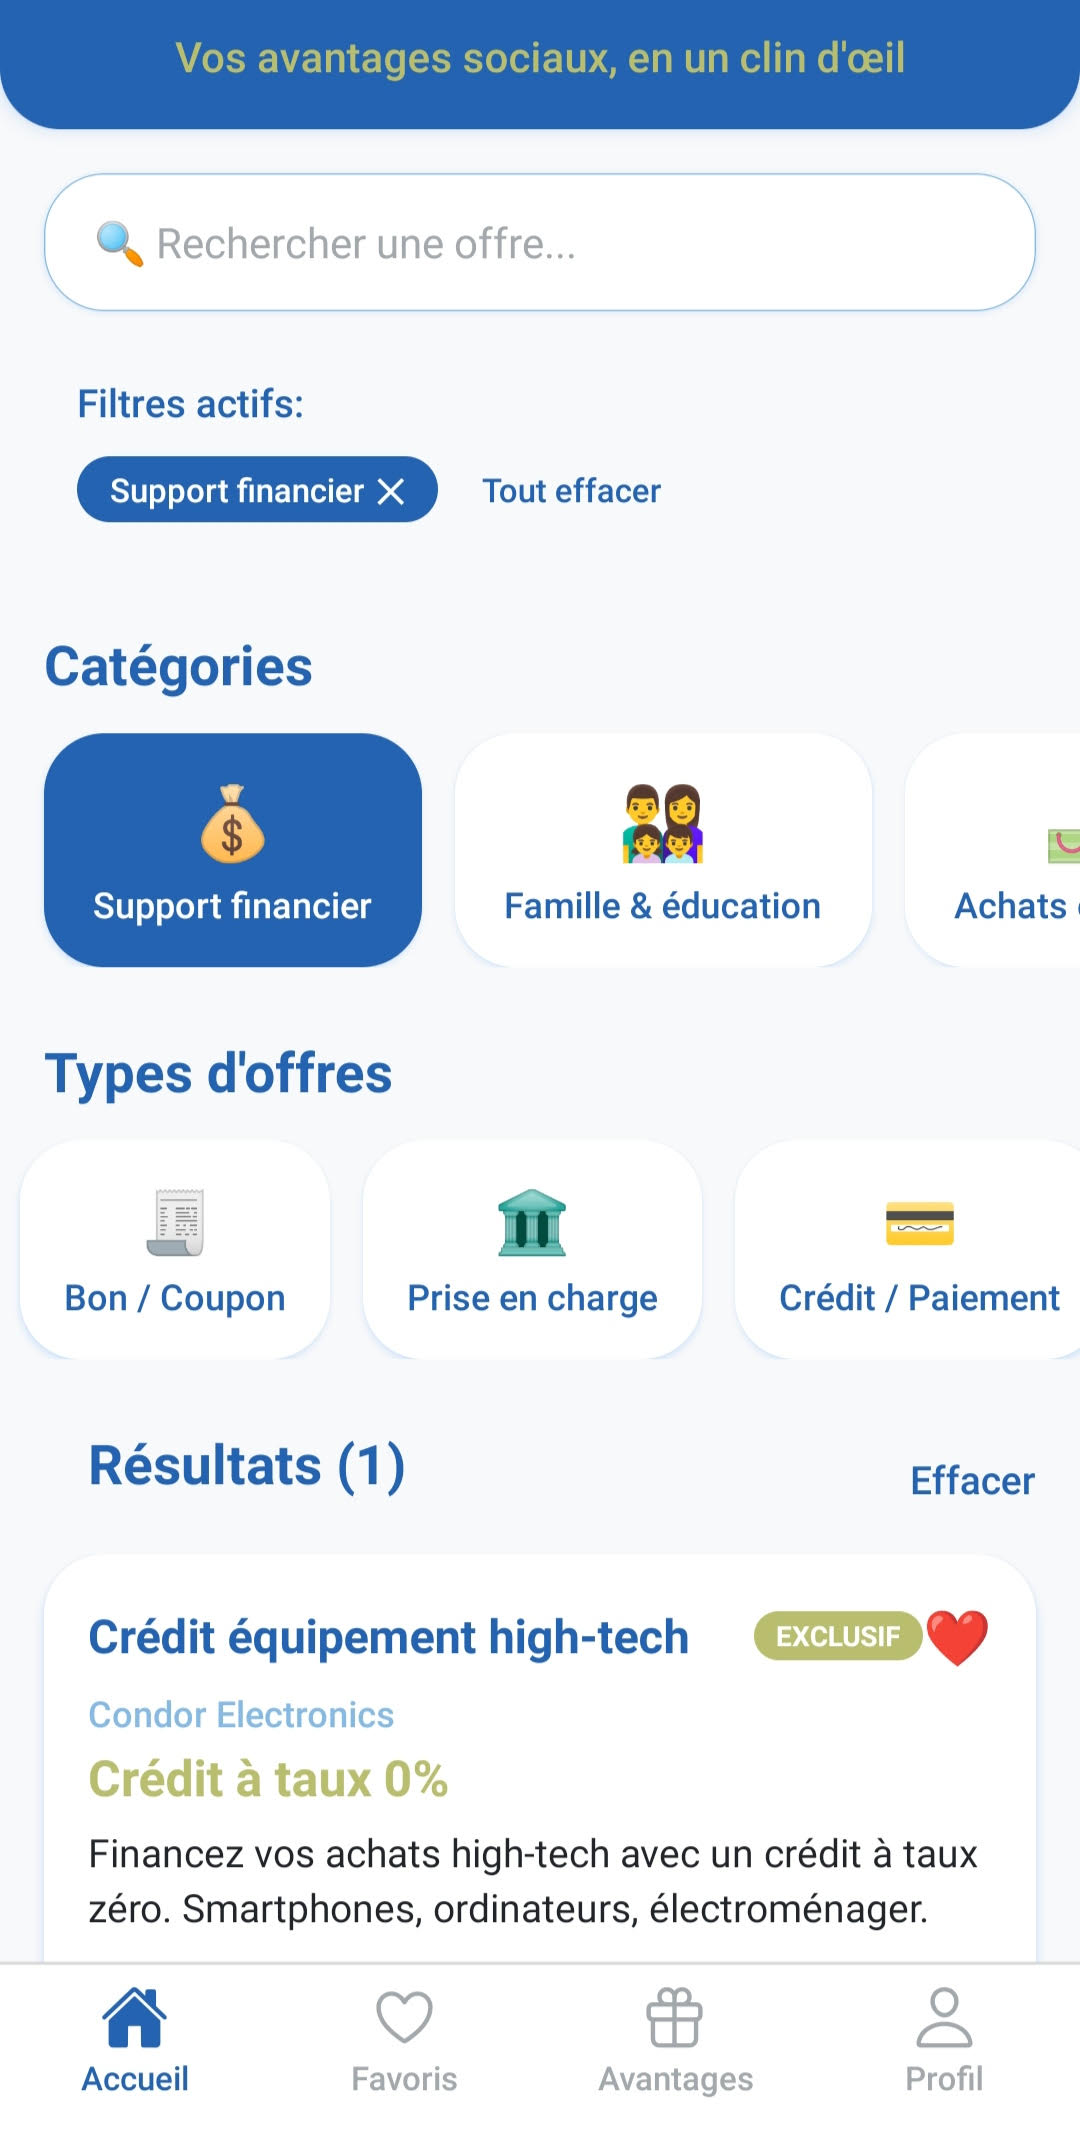
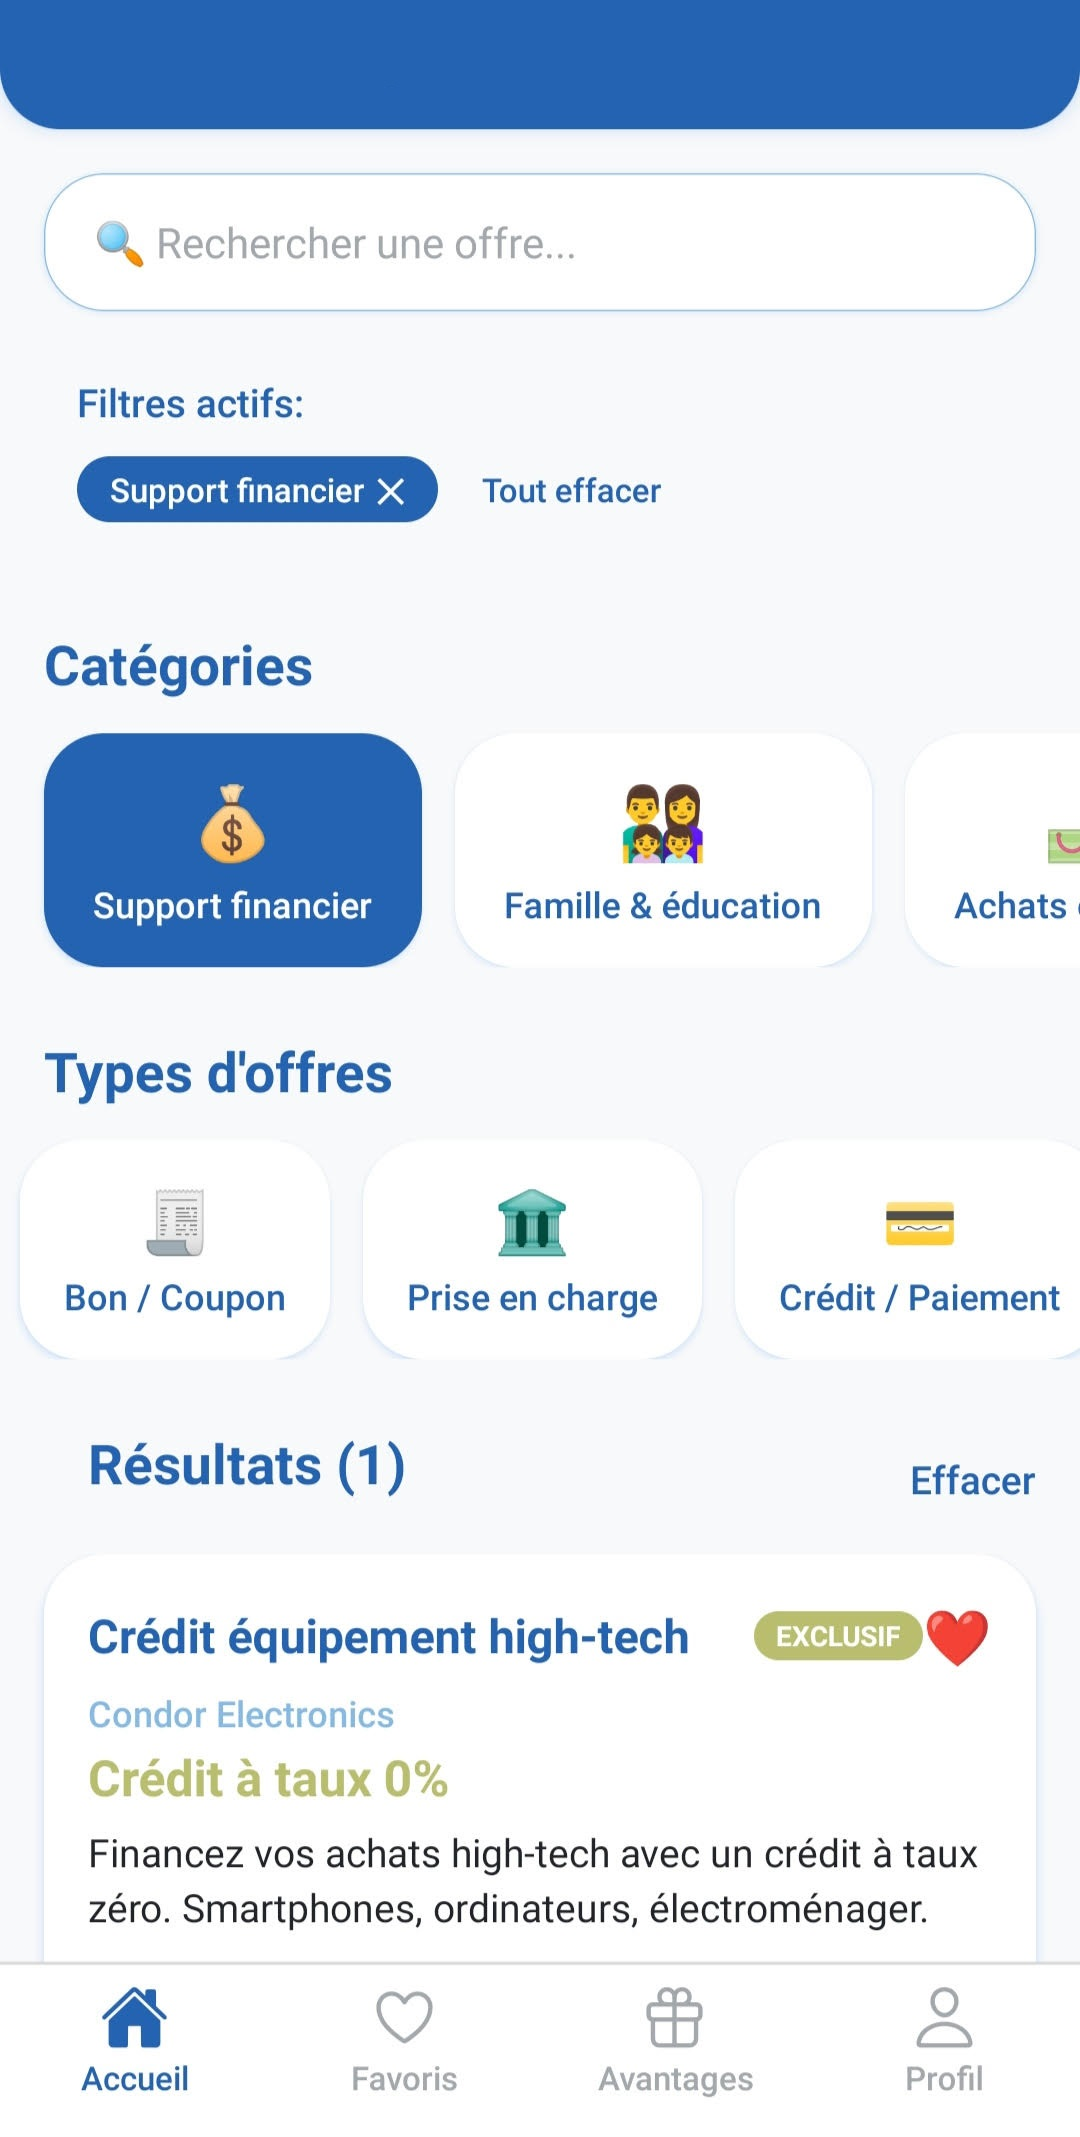
modification et supression tt ce qui est social

Changed region(s): [[0.1528, 0.0, 0.55, 0.0618], [0.5806, 0.0, 0.8556, 0.0309]]

diff --git a/index-ar.html b/index-ar.html
@@ -3,7 +3,7 @@
 <head>
     <meta charset="UTF-8">
     <meta name="viewport" content="width=device-width, initial-scale=1.0">
-    <title>أفانتاجيا - المزايا الاجتماعية للشركات الصغيرة والمتوسطة في الجزائر</title>
+    <title>أفانتاجيا - المزايا لموظفي للشركات الصغيرة والمتوسطة في الجزائر</title>
     <link rel="stylesheet" href="https://cdnjs.cloudflare.com/ajax/libs/font-awesome/6.4.0/css/all.min.css">
     <link rel="icon" href="assets/favicon.ico?v=2">
     <link rel="stylesheet" href="style.css">
@@ -61,12 +61,12 @@
             <div class="hero-content">
                 <div class="hero-text">
                 <h1 class="hero-title">
-                    <span class="title-line">من أجل نسيج مؤسساتي أكثر عدلاً واستقراراً في الجزائر،</span>
-                    <span class="title-highlight">نُكرس المزايا الاجتماعية للشركات الصغيرة والمتوسطة</span>
-                    <span class="title-line">مع أفانتاجيا</span>
+                    <span class="title-line">حوّل استثمارك في الموارد البشرية</span>
+                    <span class="title-highlight">إلى محرك تحوّلي</span>
+                    <span class="title-line">للتّماسك المؤسساتي والتّفوّق</span>
                 </h1>
                                     <p class="hero-description">
-                        أفانتاجيا هي أول منصة جزائرية مخصصة لتمكين الشركات الصغيرة والمتوسطة من توفير مزايا اجتماعية لموظفيها بسهولة وبتكلفة مدروسة.  
+                        أفانتاجيا هي أول منصة جزائرية مخصصة لتمكين الشركات الصغيرة والمتوسطة من توفير مزايا لموظفيها بسهولة وبتكلفة مدروسة.  
                         نحن نحول التحديات التي تواجه أصحاب العمل — مثل فقدان الكفاءات والضغط الإداري — إلى فرص حقيقية للاستقرار والنمو.
                     </p>
                     <div class="hero-buttons">
@@ -148,7 +148,7 @@
                             <i class="fas fa-robot"></i>
                         </div>
                         <h3>إدارة رقمية بالكامل</h3>
-                        <p>وداعاً للإجراءات المعقدة والوثائق الورقية. أفانتاجيا ترقمن إدارة المزايا الاجتماعية بالكامل، لتمنح أصحاب المؤسسات الوقت للتركيز على النمو وخدمة عملائهم.</p>
+                        <p>أفانتاجيا ترقمن إدارة المزايا للموظفين بالكامل، لتمنح أصحاب المؤسسات الوقت للتركيز على النمو وخدمة عملائهم.</p>
                     </div>
                 </div>
             </div>
@@ -338,7 +338,7 @@
                         <img src="assets/logo-avantagea.png" alt="أفانتاجيا" class="logo-img">
                         <span>أفانتاجيا</span>
                     </div>
-                    <p>حل مبتكر لدعم استقرار الشركات الصغيرة والمتوسطة من خلال مزايا اجتماعية رقمية وميسّرة.</p>
+                    <p>حل مبتكر لدعم استقرار الشركات الصغيرة والمتوسطة وتعزيز ولاء الموظفين من خلال مزايا رقمية سهلة الاستخدام.</p>
                 </div>
                 <div class="footer-section">
                     <h4>روابط سريعة</h4>

diff --git a/index.html b/index.html
@@ -3,7 +3,7 @@
 <head>
     <meta charset="UTF-8">
     <meta name="viewport" content="width=device-width, initial-scale=1.0">
-    <title>Avantagea - Réinventons les avantages sociaux des PME algériennes</title>
+    <title>Avantagea - Réinventons les avantages employés des PME algériennes</title>
     <link rel="stylesheet" href="https://cdnjs.cloudflare.com/ajax/libs/font-awesome/6.4.0/css/all.min.css">
     <link rel="icon" href="assets/favicon.ico?v=2">
     <link rel="stylesheet" href="style.css">
@@ -48,9 +48,9 @@
         <div class="hero-content">
             <div class="hero-text">
                 <h1 class="hero-title">
-                    <span class="title-line">Réinventons les</span>
-                    <span class="title-highlight">avantages sociaux</span>
-                    <span class="title-line">des PME en Algérie</span>
+                    <span class="title-line">Transformez votre budget avantages</span>
+                    <span class="title-highlight">en un levier stratégique</span>
+                    <span class="title-line">de fidélisation et de croissance</span>
                 </h1>
                 <p class="hero-description">
                     En Algérie, beaucoup d’employés quittent les PME pour le confort des grands groupes ou du secteur public.  
@@ -142,7 +142,7 @@
                     <i class="fas fa-robot"></i>
                 </div>
                 <h3>Gestion 100% digitalisée</h3>
-                <p>Fini les démarches lourdes et les paperasses. Avantagea automatise la gestion des avantages sociaux pour que les dirigeants puissent se concentrer sur leur croissance et leurs clients.</p>
+                <p>Avantagea automatise la gestion des avantages pour les employés pour que les dirigeants puissent se concentrer sur leur croissance et leurs clients.</p>
             </div>
         </div>
     </div>
@@ -329,7 +329,7 @@
                     <img src="assets/logo-avantagea.png" alt="Avantagea" class="logo-img">
                     <span>Avantagea</span>
                 </div>
-                <p>Avantagea, la plateforme qui redonne aux PME algériennes le pouvoir de fidéliser leurs talents grâce aux avantages sociaux.</p>
+                <p>Avantagea, la plateforme qui aide les PME algériennes à fidéliser leurs talents et améliorer le bien-être de leurs employés.</p>
             </div>
             <div class="footer-section">
                 <h4>Liens Rapides</h4>

diff --git a/contact-ar.html b/contact-ar.html
@@ -82,7 +82,7 @@
             <span class="title-line">اليوم</span>
           </h1>
           <p class="hero-description">
-            هل ترغب في تقديم مزايا المجموعات الكبيرة لشركتك الصغيرة أو المتوسطة؟ 
+            هل ترغب في تقديم مزايا حصرية وملموسة لموظفي شركتك الصغيرة أو المتوسطة؟
             فريقنا يرافقك خطوة بخطوة لتنفيذ الحل المناسب لك.
           </p>
           <div class="hero-buttons">
@@ -235,7 +235,8 @@
             <img src="assets/logo-avantagea.png" alt="أفانتاجيا" class="logo-img">
             <span>أفانتاجيا</span>
           </div>
-          <p>نحو تعميم المزايا الاجتماعية للشركات الصغيرة والمتوسطة في الجزائر</p>
+          <p>نحو تعزيز رفاهية الموظفين ومزاياهم للشركات الصغيرة والمتوسطة في الجزائر</p>
+
         </div>
         <div class="footer-section">
           <h4>روابط سريعة</h4>

diff --git a/contact.html b/contact.html
@@ -48,7 +48,7 @@
                         <span class="title-line">Aujourd'hui</span>
                     </h1>
                     <p class="hero-description">
-                        Prêt à offrir les avantages des grands groupes à votre PME ? 
+                        Prêt à offrir des avantages exclusifs et concrets à vos employés ? 
                         Notre équipe vous accompagne dans la mise en place de la solution.
                     </p>
                     <div class="hero-buttons">
@@ -199,7 +199,7 @@
                         <img src="assets/logo-avantagea.png" alt="Avantagea" class="logo-img">
                         <span>Avantagea</span>
                     </div>
-                    <p>Démocratisons les avantages sociaux pour les PME Algériennes</p>
+                    <p>Démocratisons les avantages employés pour les PME algériennes</p>
                 </div>
                 <div class="footer-section">
                     <h4>Liens Rapides</h4>
